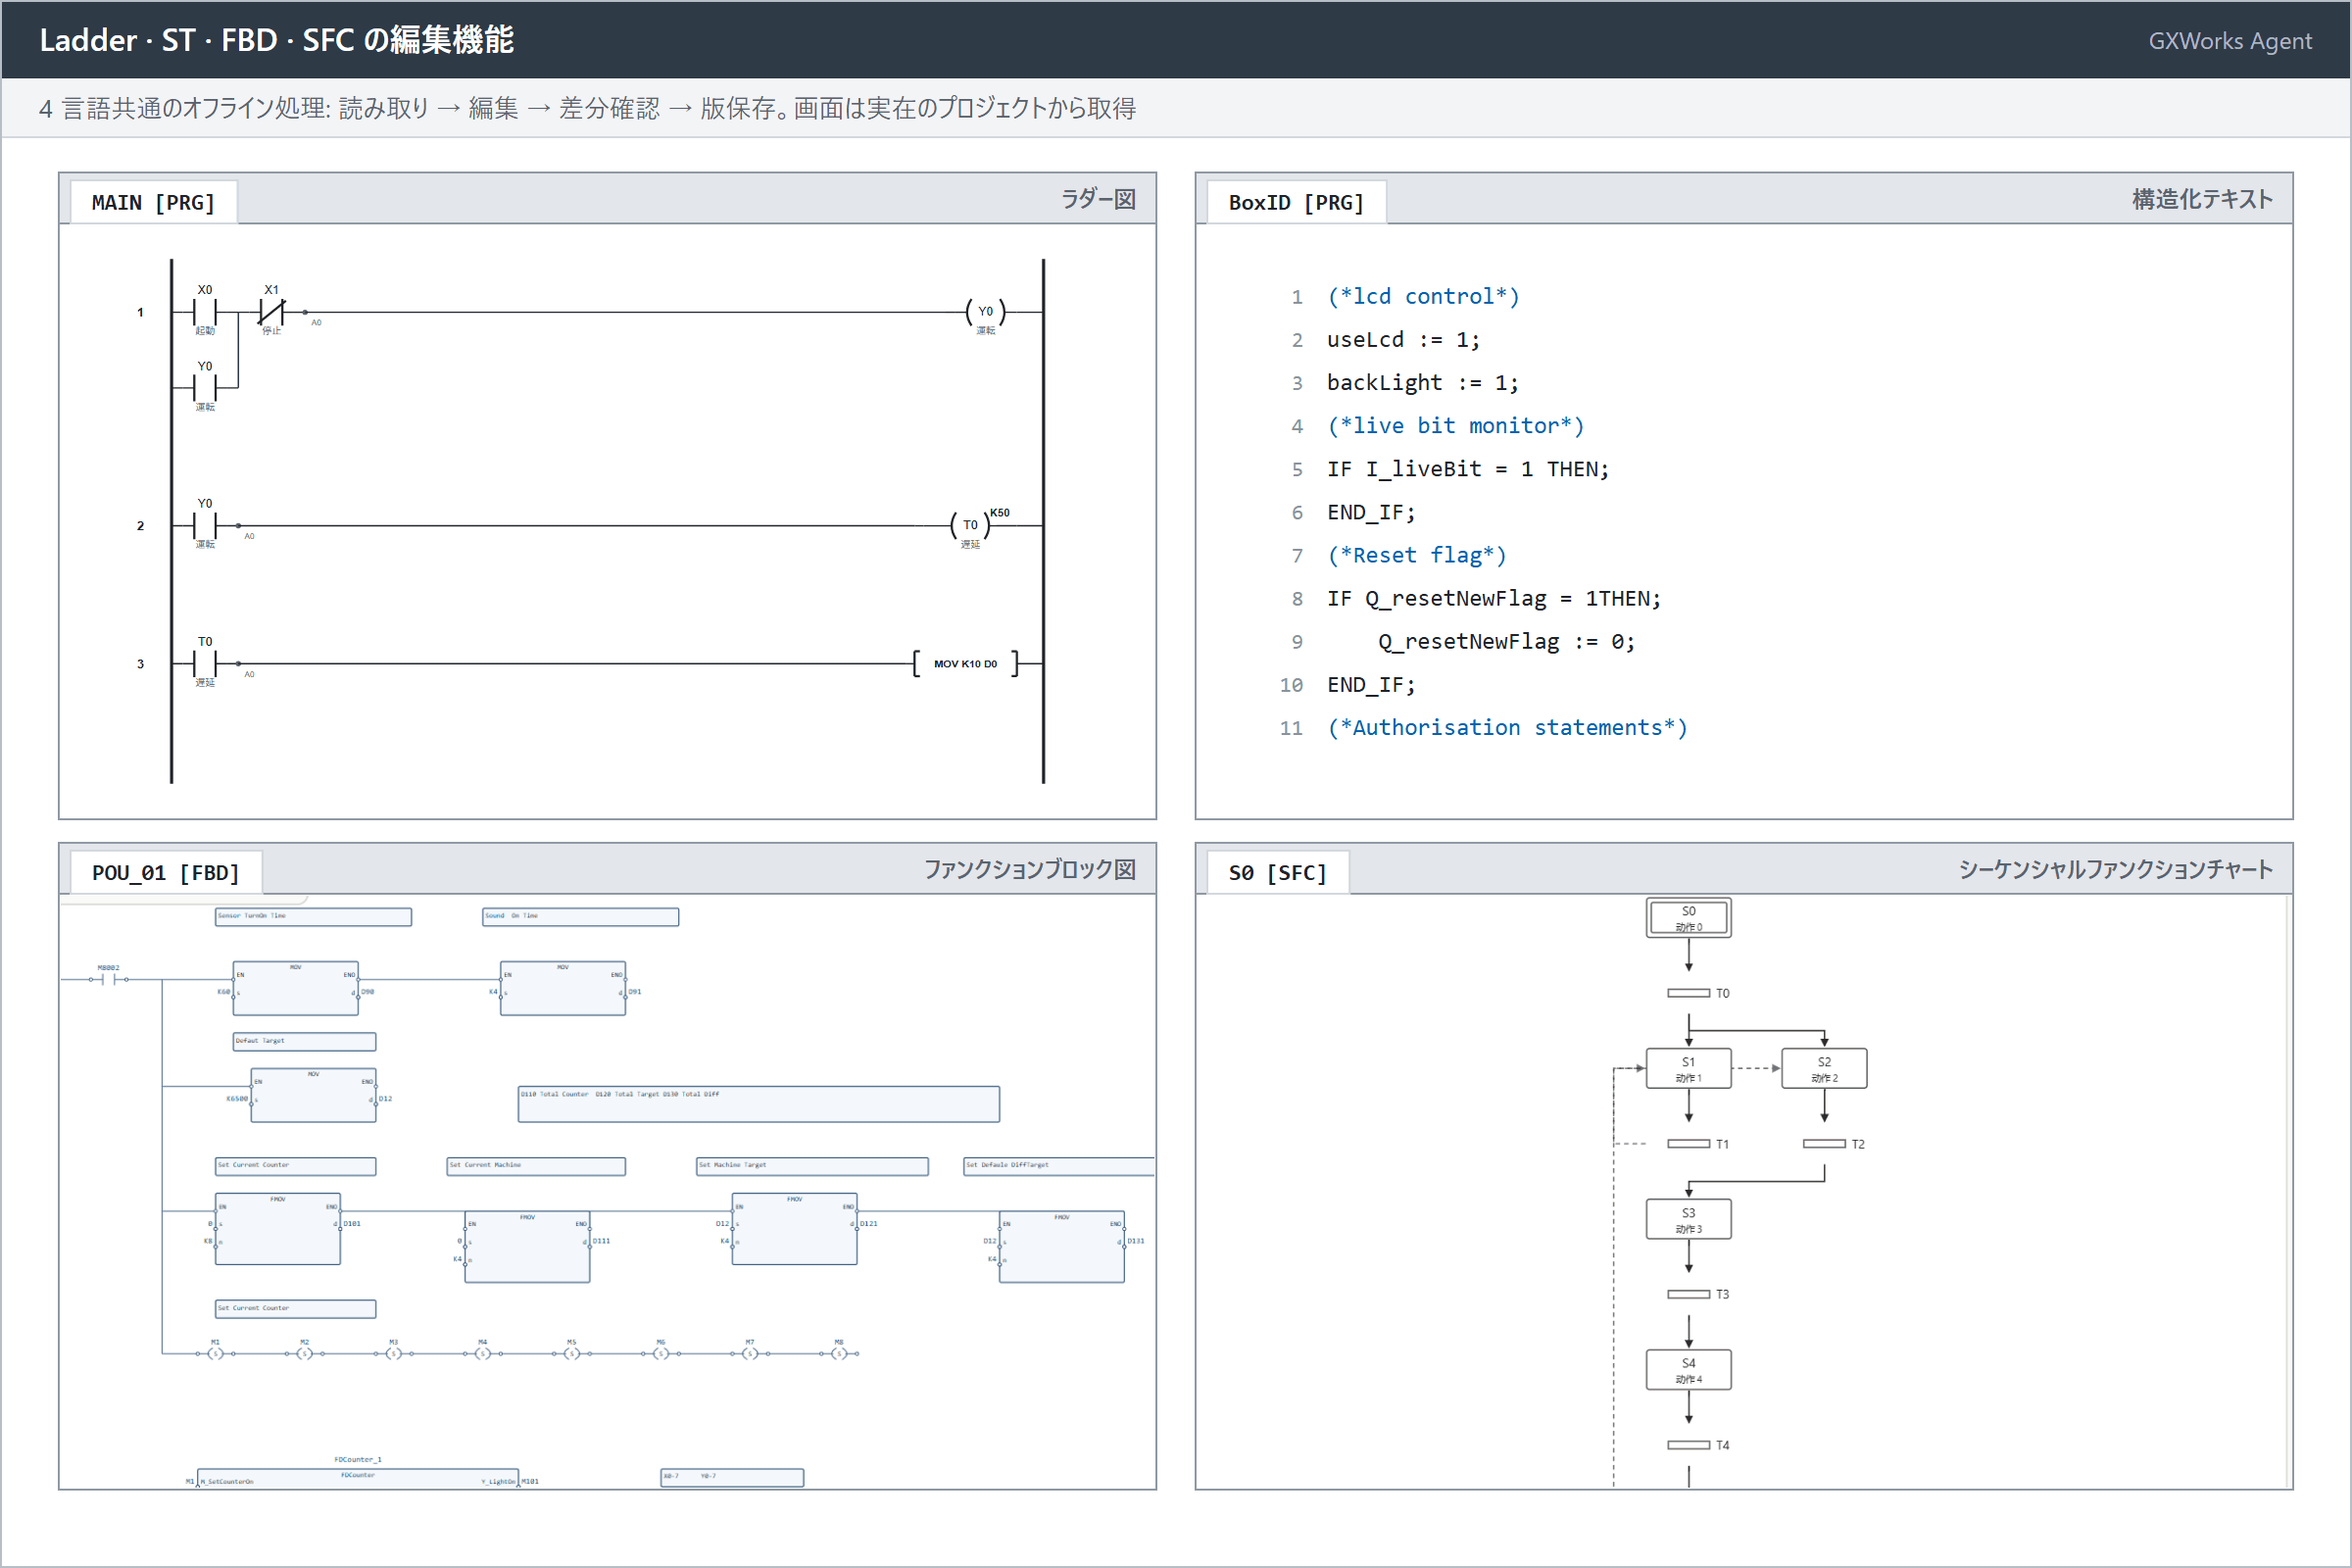
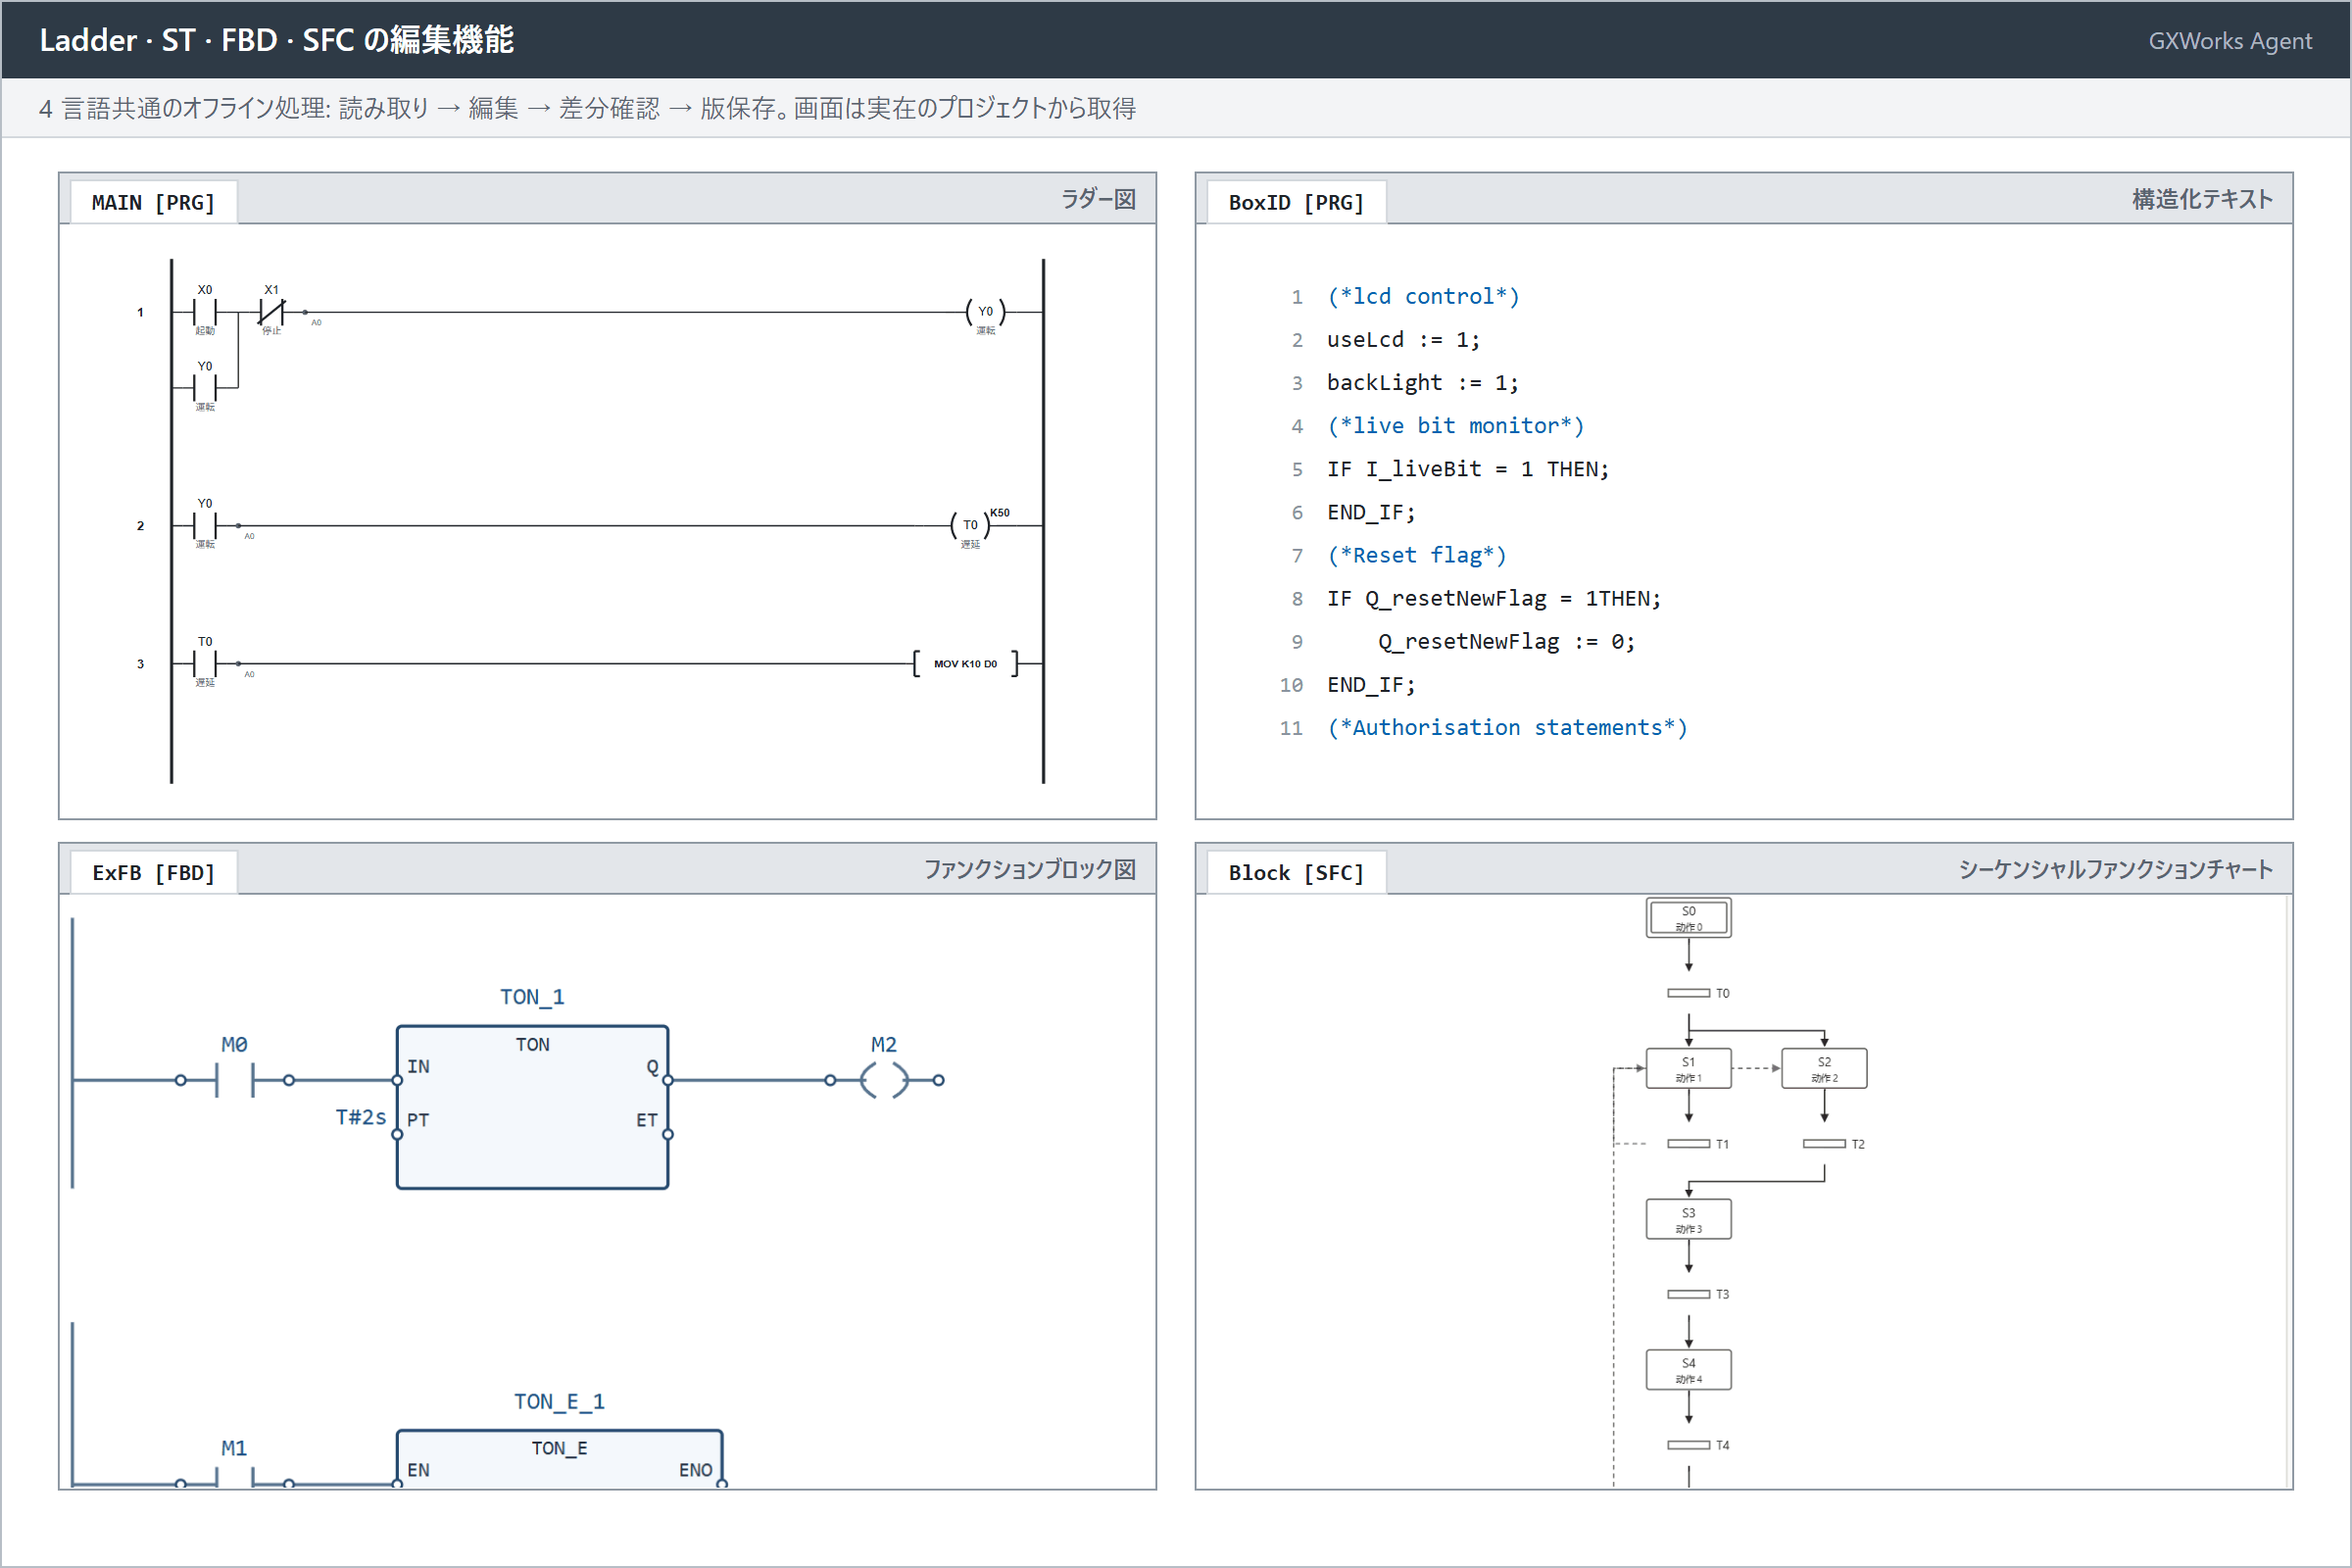
Show a readable FBD block diagram in the language panes

diff --git a/tools/generate_readme_assets.py b/tools/generate_readme_assets.py
@@ -412,10 +412,10 @@ def feature_languages(lang):
         c.text(ix + 54, iy + 40 + index * 22, str(index + 1), 11, SOFT, 400, 'end', True)
         c.code(ix + 66, iy + 40 + index * 22, ((line, BLUE if line.startswith('(*') else INK),), 12)
     # FBD: captured graph from a real FX3U FBD project
-    ix, iy, iw, ih = pane(c, 30, 430, 560, 330, 'POU_01 [FBD]', kinds[2], lang)
-    place_capture(c, ix, iy, iw, ih, 'language-fbd-panel', (0, 470, 1278, 620))
+    ix, iy, iw, ih = pane(c, 30, 430, 560, 330, 'ExFB [FBD]', kinds[2], lang)
+    place_capture(c, ix, iy, iw, ih, 'language-fbd-fb-panel', (110, 505, 1100, 640))
     # SFC: captured chart from a real SFC project
-    ix, iy, iw, ih = pane(c, 610, 430, 560, 330, 'S0 [SFC]', kinds[3], lang)
+    ix, iy, iw, ih = pane(c, 610, 430, 560, 330, 'Block [SFC]', kinds[3], lang)
     place_capture(c, ix, iy, iw, ih, 'language-sfc2-panel', (30, 235, 1224, 720))
     return c
 
